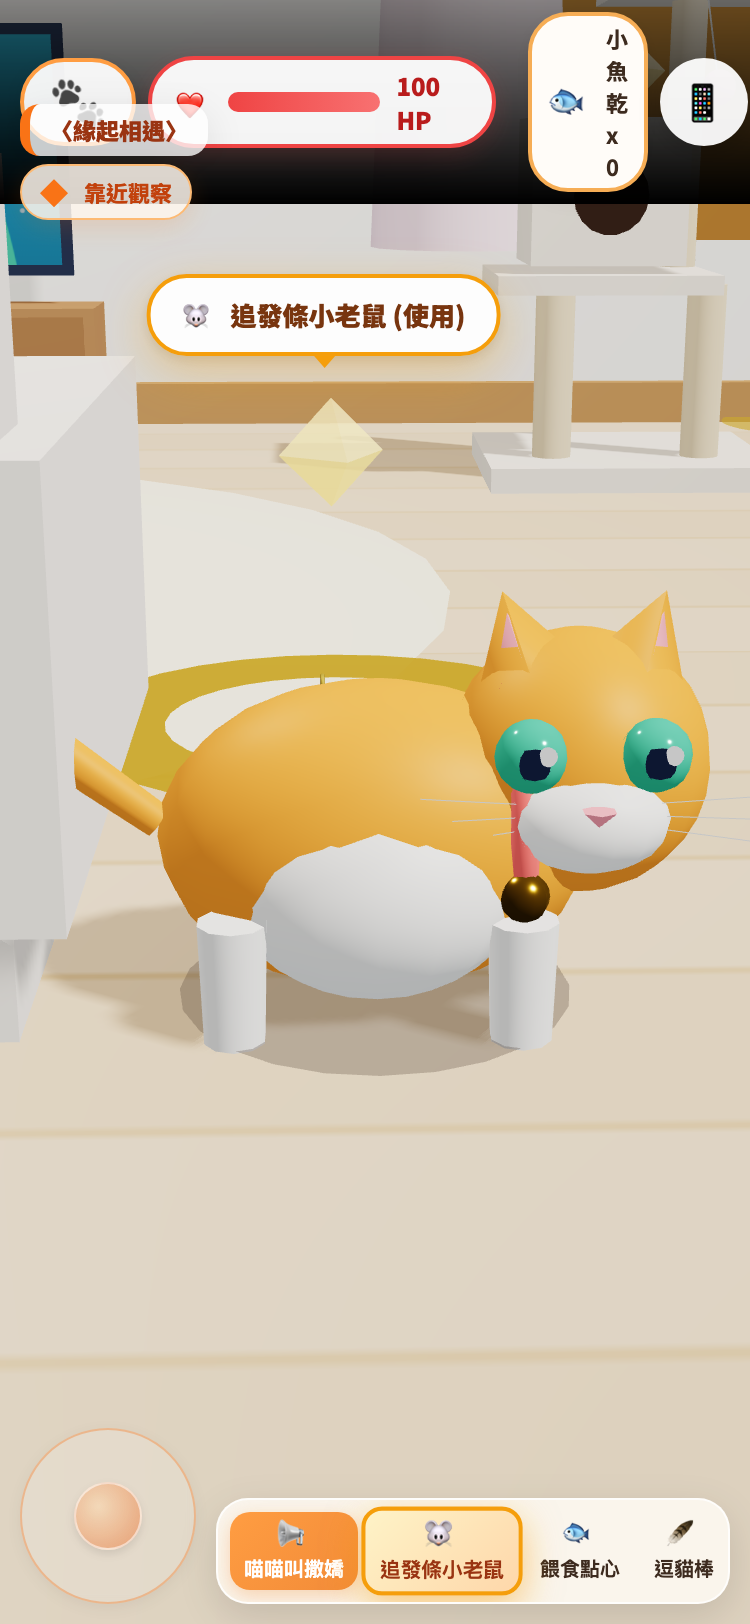
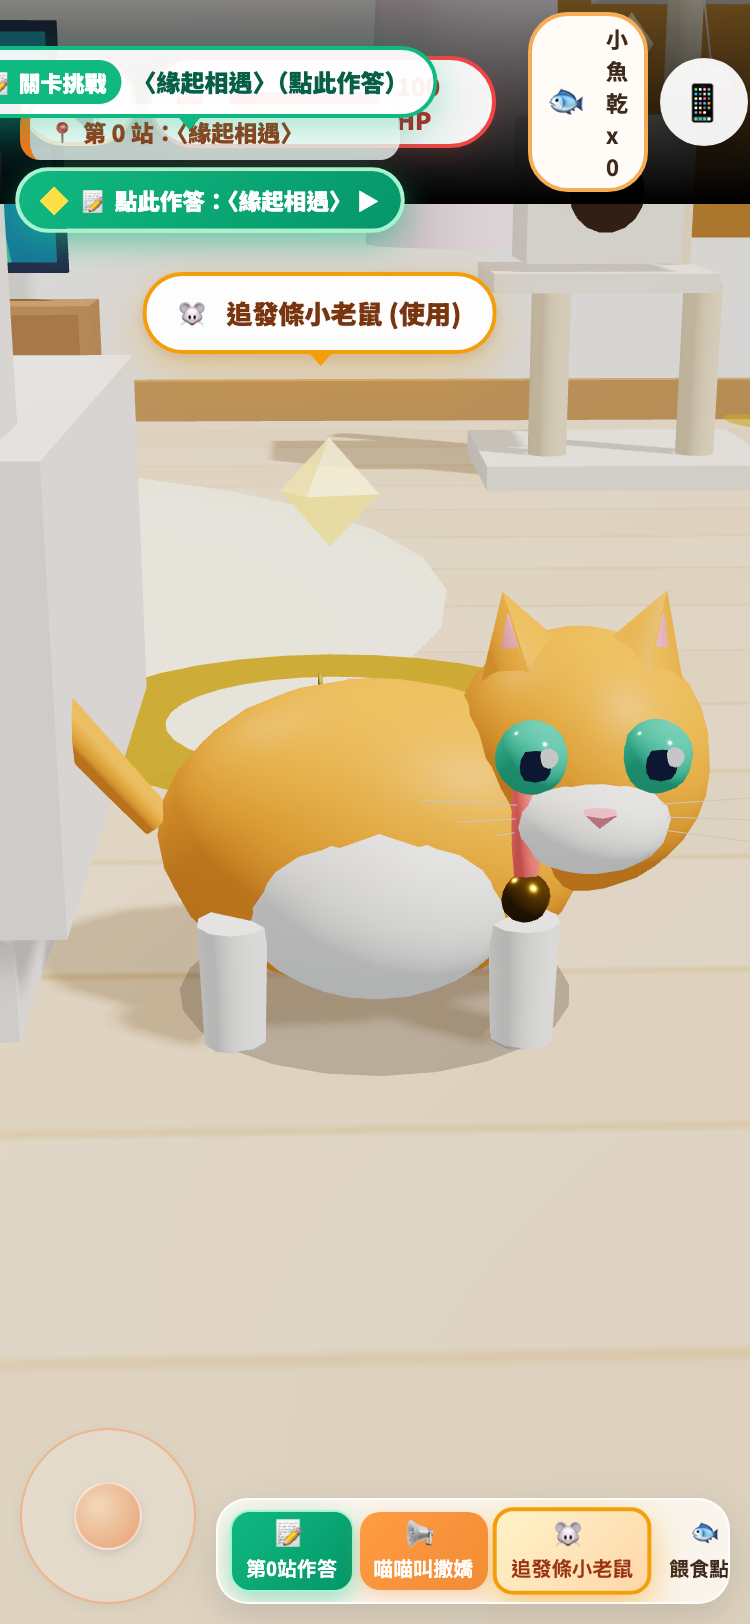
feat(ui,3d): add 3D quest beacon, floating quest marker, and prominent quiz buttons so students clearly know where to answer

diff --git a/js/game.js b/js/game.js
@@ -2527,6 +2527,47 @@ class GameEngine {
 
       return { spot, bubble, aura: auraGroup };
     });
+
+    // 建立當前關卡專屬 3D 導引光柱地標 (Quest Beacon)
+    this.questBeacon = new THREE.Group();
+    const qRingGeo = new THREE.RingGeometry(0.32, 0.52, 36);
+    const qRingMat = new THREE.MeshBasicMaterial({
+      color: 0x10b981,
+      side: THREE.DoubleSide,
+      transparent: true,
+      opacity: 0.85,
+      depthWrite: false
+    });
+    this.questBeaconRing = new THREE.Mesh(qRingGeo, qRingMat);
+    this.questBeaconRing.rotation.x = -Math.PI / 2;
+    this.questBeaconRing.position.y = 0.03;
+    this.questBeacon.add(this.questBeaconRing);
+
+    const qBeamGeo = new THREE.CylinderGeometry(0.22, 0.36, 1.8, 24, 1, true);
+    const qBeamMat = new THREE.MeshBasicMaterial({
+      color: 0x34d399,
+      side: THREE.DoubleSide,
+      transparent: true,
+      opacity: 0.28,
+      depthWrite: false
+    });
+    this.questBeaconBeam = new THREE.Mesh(qBeamGeo, qBeamMat);
+    this.questBeaconBeam.position.y = 0.9;
+    this.questBeacon.add(this.questBeaconBeam);
+
+    const qStarGeo = new THREE.OctahedronGeometry(0.20, 0);
+    const qStarMat = new THREE.MeshStandardMaterial({
+      color: 0x6ee7b7,
+      emissive: 0x059669,
+      emissiveIntensity: 1.2,
+      roughness: 0.15,
+      metalness: 0.4
+    });
+    this.questBeaconStar = new THREE.Mesh(qStarGeo, qStarMat);
+    this.questBeaconStar.position.y = 0.55;
+    this.questBeacon.add(this.questBeaconStar);
+
+    this.scene.add(this.questBeacon);
   }
 
   interactWithNearby() {
@@ -3173,6 +3214,60 @@ class GameEngine {
       if (dockBtn) dockBtn.classList.remove('highlight-item-btn');
       if (dockIcon) dockIcon.textContent = '🛋';
       if (dockLabel) dockLabel.textContent = '沙發互動';
+    }
+
+    // 5. 更新當前關卡 3D 光柱地標 (Quest Beacon) 與 2D 浮動路標 (#quest-3d-marker)
+    const qMarker = document.getElementById('quest-3d-marker');
+    const cs = window.curriculumSystem;
+    if (cs && cs.ST && cs.ST[cs.G.station]) {
+      const st = cs.ST[cs.G.station];
+      const tPos = (typeof st.target === 'function') ? st.target() : new THREE.Vector3(0, 0.3, 0);
+
+      if (this.questBeacon) {
+        this.questBeacon.visible = (cs.G.mode === 'explore');
+        this.questBeacon.position.set(tPos.x, 0, tPos.z);
+        if (this.questBeaconStar) {
+          this.questBeaconStar.rotation.y = time * 2.8;
+          this.questBeaconStar.position.y = Math.max(0.45, tPos.y + 0.25) + Math.sin(time * 4) * 0.08;
+        }
+        if (this.questBeaconRing) {
+          const s = 1.0 + Math.sin(time * 4.5) * 0.18;
+          this.questBeaconRing.scale.set(s, s, 1);
+          this.questBeaconRing.position.y = (tPos.y > 0.45 ? tPos.y - 0.01 : 0.03);
+        }
+      }
+
+      if (qMarker) {
+        if (cs.G.mode === 'explore' && st.kind !== 'story') {
+          tempV.set(tPos.x, Math.max(0.65, tPos.y + 0.55), tPos.z);
+          tempV.project(this.camera);
+
+          let sx = (tempV.x * 0.5 + 0.5) * window.innerWidth;
+          let sy = (-tempV.y * 0.5 + 0.5) * window.innerHeight;
+          if (tempV.z > 1) {
+            sx = window.innerWidth - sx;
+            sy = window.innerHeight - 95;
+          }
+          // 保持在畫面可視範圍內，就算視角轉開也能在邊緣看到關卡方向並直接點擊作答
+          sx = Math.max(95, Math.min(window.innerWidth - 95, sx));
+          sy = Math.max(66, Math.min(window.innerHeight - 92, sy));
+
+          qMarker.style.display = 'inline-flex';
+          qMarker.style.left = `${sx}px`;
+          qMarker.style.top = `${sy}px`;
+
+          // 若玩家主動走進關卡光柱範圍 (< 0.88m)，自動彈出本關課文與題目挑戰！
+          const distToQuest = Math.hypot(currentHeroPos.x - tPos.x, currentHeroPos.z - tPos.z);
+          if (distToQuest < 0.88 && this.isCatMoving && this._autoOpenedStation !== cs.G.station) {
+            this._autoOpenedStation = cs.G.station;
+            cs.promptInteract();
+          } else if (distToQuest > 1.35 && this._autoOpenedStation === cs.G.station) {
+            this._autoOpenedStation = -1;
+          }
+        } else {
+          qMarker.style.display = 'none';
+        }
+      }
     }
   }
 

diff --git a/css/style.css b/css/style.css
@@ -1414,9 +1414,10 @@ rt {
     display: none !important;
   }
   .prompt-diamond {
-    padding: 3px 9px !important;
+    padding: 4px 10px !important;
     font-size: 11px !important;
-    background: rgba(255, 247, 237, 0.85) !important;
+    background: linear-gradient(135deg, #10b981, #059669) !important;
+    color: #ffffff !important;
   }
 }
 
@@ -1465,28 +1466,34 @@ rt {
   display: inline-flex;
   align-items: center;
   align-self: flex-start;
-  gap: 8px;
-  background: #fff7ed;
-  border: 1.5px solid #fdba74;
-  padding: 5px 12px;
-  border-radius: 20px;
-  font-size: 12px;
-  font-weight: 700;
-  color: #c2410c;
+  gap: 6px;
+  background: linear-gradient(135deg, #10b981, #059669);
+  border: 2px solid #a7f3d0;
+  padding: 6px 14px;
+  border-radius: 22px;
+  font-size: 13px;
+  font-weight: 800;
+  color: #ffffff;
   cursor: pointer;
-  box-shadow: 0 4px 12px rgba(249, 115, 22, 0.15);
+  box-shadow: 0 4px 14px rgba(16, 185, 129, 0.45);
   pointer-events: auto;
   z-index: 80;
+  animation: pulseQuizBtn 1.3s infinite alternate ease-in-out;
   transition: transform 0.2s, background 0.2s;
 }
 .prompt-diamond:hover {
-  transform: scale(1.04);
-  background: #ffedd5;
+  transform: scale(1.06);
+  background: linear-gradient(135deg, #059669, #047857);
 }
 .prompt-diamond::before {
   content: '◆';
-  color: #f97316;
+  color: #fde047;
   font-size: 14px;
+}
+
+@keyframes pulseQuizBtn {
+  from { transform: scale(1); box-shadow: 0 3px 10px rgba(16, 185, 129, 0.35); }
+  to { transform: scale(1.04); box-shadow: 0 6px 18px rgba(16, 185, 129, 0.65); }
 }
 
 /* 體力血條 */
@@ -1865,4 +1872,59 @@ body.screen-hurt::after {
 @keyframes pulseGold {
   from { transform: scale(1); box-shadow: 0 4px 12px rgba(245, 158, 11, 0.3); }
   to { transform: scale(1.06); box-shadow: 0 8px 22px rgba(245, 158, 11, 0.7); }
+}
+
+/* 右下操作列專屬醒目「本關作答」按鈕 */
+.dock-btn.quiz-go-btn {
+  background: linear-gradient(135deg, #10b981, #059669) !important;
+  border: 1.5px solid #a7f3d0 !important;
+  color: #ffffff !important;
+  font-weight: 800 !important;
+  box-shadow: 0 4px 12px rgba(16, 185, 129, 0.4) !important;
+}
+
+/* 3D 場景中的關卡地標浮動指引牌 */
+.quest-3d-marker {
+  position: fixed;
+  transform: translate(-50%, -100%);
+  display: none;
+  align-items: center;
+  gap: 6px;
+  background: rgba(255, 255, 255, 0.94);
+  border: 2.5px solid #10b981;
+  border-radius: 22px;
+  padding: 5px 12px;
+  box-shadow: 0 6px 20px rgba(16, 185, 129, 0.38);
+  cursor: pointer;
+  pointer-events: auto;
+  z-index: 88;
+  white-space: nowrap;
+  animation: floatQuestMarker 1.1s infinite alternate ease-in-out;
+}
+.quest-3d-marker .quest-marker-badge {
+  background: #10b981;
+  color: #ffffff;
+  font-size: 11px;
+  font-weight: 800;
+  padding: 2px 7px;
+  border-radius: 12px;
+}
+.quest-3d-marker #quest-marker-label {
+  font-size: 12px;
+  font-weight: 800;
+  color: #065f46;
+}
+.quest-3d-marker::after {
+  content: '';
+  position: absolute;
+  bottom: -8px;
+  left: 50%;
+  transform: translateX(-50%);
+  border-width: 8px 7px 0;
+  border-style: solid;
+  border-color: #10b981 transparent transparent transparent;
+}
+@keyframes floatQuestMarker {
+  from { margin-top: 0px; }
+  to { margin-top: -7px; }
 }

diff --git a/index.html b/index.html
@@ -6,7 +6,7 @@
   <meta name="apple-mobile-web-app-capable" content="yes">
   <meta name="apple-mobile-web-app-status-bar-style" content="black-translucent">
   <title>《小女生：膠水貓大冒險》3D 沉浸式教育遊戲</title>
-  <link rel="stylesheet" href="css/style.css?v=20261027_8">
+  <link rel="stylesheet" href="css/style.css?v=20261027_10">
   <!-- Three.js 核心庫 (CDN) -->
   <script src="https://cdnjs.cloudflare.com/ajax/libs/three.js/r128/three.min.js"></script>
 </head>
@@ -132,13 +132,19 @@
 
     <!-- 任務橫幅與提示菱形群組 (獨立左側直向排版，絕不遮擋頂部標題) -->
     <div id="mission-hud-group" class="mission-hud-group">
-      <div id="quest-banner" class="quest-banner">
+      <div id="quest-banner" class="quest-banner" onclick="window.__bird && window.__bird.interact()" style="cursor:pointer;">
         <div id="quest-title" class="quest-title">走向洗手間門口</div>
         <div id="quest-desc" class="quest-desc">觀察小女生在門外的舉動</div>
       </div>
       <div id="prompt-diamond" class="prompt-diamond" onclick="window.__bird && window.__bird.interact()">
-        <span id="prompt-text">聆聽門外的喵喵叫</span>
+        <span id="prompt-text">📝 點此開始本關作答</span>
       </div>
+    </div>
+
+    <!-- 3D 場景中的關卡地標浮動指引牌 (點擊或走近皆可觸發作答) -->
+    <div id="quest-3d-marker" class="quest-3d-marker" onclick="window.__bird && window.__bird.interact()">
+      <span class="quest-marker-badge">📝 關卡挑戰</span>
+      <span id="quest-marker-label">第 1 站：點此作答</span>
     </div>
 
     <!-- 活動邊界 Toast (已停用並永久隱藏，保持視線清爽) -->
@@ -173,6 +179,10 @@
       </div>
 
       <div class="action-dock" id="action-dock">
+        <button class="dock-btn quiz-go-btn" id="btn-start-quiz" onclick="window.__bird && window.__bird.interact()">
+          <span class="btn-icon">📝</span>
+          <span id="btn-quiz-dock-label">本關作答</span>
+        </button>
         <button class="dock-btn primary" id="btn-primary-action" onclick="window.__bird && window.__bird.interact()">
           <span class="btn-icon">🗣</span>
           <span id="btn-primary-label">與貓對話</span>
@@ -340,10 +350,10 @@
   </div>
 
   <!-- 依序載入關卡題庫、音效系統、教學邏輯與 3D 引擎 -->
-  <script src="js/stations.js?v=20261027_9"></script>
-  <script src="js/audio.js?v=20261027_9"></script>
-  <script src="js/curriculum.js?v=20261027_9"></script>
-  <script src="js/game.js?v=20261027_9"></script>
+  <script src="js/stations.js?v=20261027_10"></script>
+  <script src="js/audio.js?v=20261027_10"></script>
+  <script src="js/curriculum.js?v=20261027_10"></script>
+  <script src="js/game.js?v=20261027_10"></script>
 
   <script>
     function selectRole(role) {

diff --git a/js/stations.js b/js/stations.js
@@ -28,7 +28,7 @@ window.ST = [
     obj: '觀察小女生在門外的舉動',
     prompt: '聆聽門外的喵喵叫',
     area: { x0: -15, x1: 15, z0: -15, z1: 15 },
-    target: () => new THREE.Vector3(-4.5, 0.3, -2.5),
+    target: () => new THREE.Vector3(-3.6, 0.3, -1.8),
     steps: [
       {
         no: 1,
@@ -219,7 +219,7 @@ window.ST = [
     para: '第三段',
     text: '平時，牠喜歡四腳朝天的躺在沙發上，毛茸茸的肚子，看起來像蓋上了一條白色小被子。',
     env: 'warm',
-    target: () => new THREE.Vector3(0, 0.6, 2.2)
+    target: () => new THREE.Vector3(0.7, 0.6, 1.35)
   },
   {
     id: 7,
@@ -230,7 +230,7 @@ window.ST = [
     quest: '走到客廳沙發旁',
     obj: '伸出手撫摸柔細的毛與圓胖肚子',
     prompt: '摸摸柔細的毛',
-    target: () => new THREE.Vector3(0.5, 0.6, 2.2),
+    target: () => new THREE.Vector3(0.5, 0.6, 1.35),
     steps: [
       {
         no: 13,
@@ -272,7 +272,7 @@ window.ST = [
     quest: '坐在沙發上',
     obj: '迎接把前腳搭在腿上的小女生',
     prompt: '感受膝上的溫暖',
-    target: () => new THREE.Vector3(-0.4, 0.6, 2.2),
+    target: () => new THREE.Vector3(-0.3, 0.6, 1.35),
     steps: [
       {
         no: 16,

diff --git a/js/curriculum.js b/js/curriculum.js
@@ -850,12 +850,18 @@ class CurriculumSystem {
     const st = this.ST[this.G.station];
     if (st) {
       const qTitle = document.getElementById('quest-title');
-      if (qTitle) qTitle.innerText = st.quest || st.name;
+      if (qTitle) qTitle.innerText = `📍 第 ${this.G.station} 站：${st.quest || st.name}`;
       const qDesc = document.getElementById('quest-desc');
       if (qDesc) qDesc.innerText = st.obj || st.para;
 
       const pTxt = document.getElementById('prompt-text');
-      if (pTxt) pTxt.innerText = st.prompt || '靠近觀察';
+      if (pTxt) pTxt.innerText = `📝 點此作答：${st.prompt || st.name} ▶`;
+
+      const mLbl = document.getElementById('quest-marker-label');
+      if (mLbl) mLbl.innerText = `${st.quest || st.name}（點此作答）`;
+
+      const dockQuizLbl = document.getElementById('btn-quiz-dock-label');
+      if (dockQuizLbl) dockQuizLbl.innerText = `第${this.G.station}站作答`;
     }
   }
 
